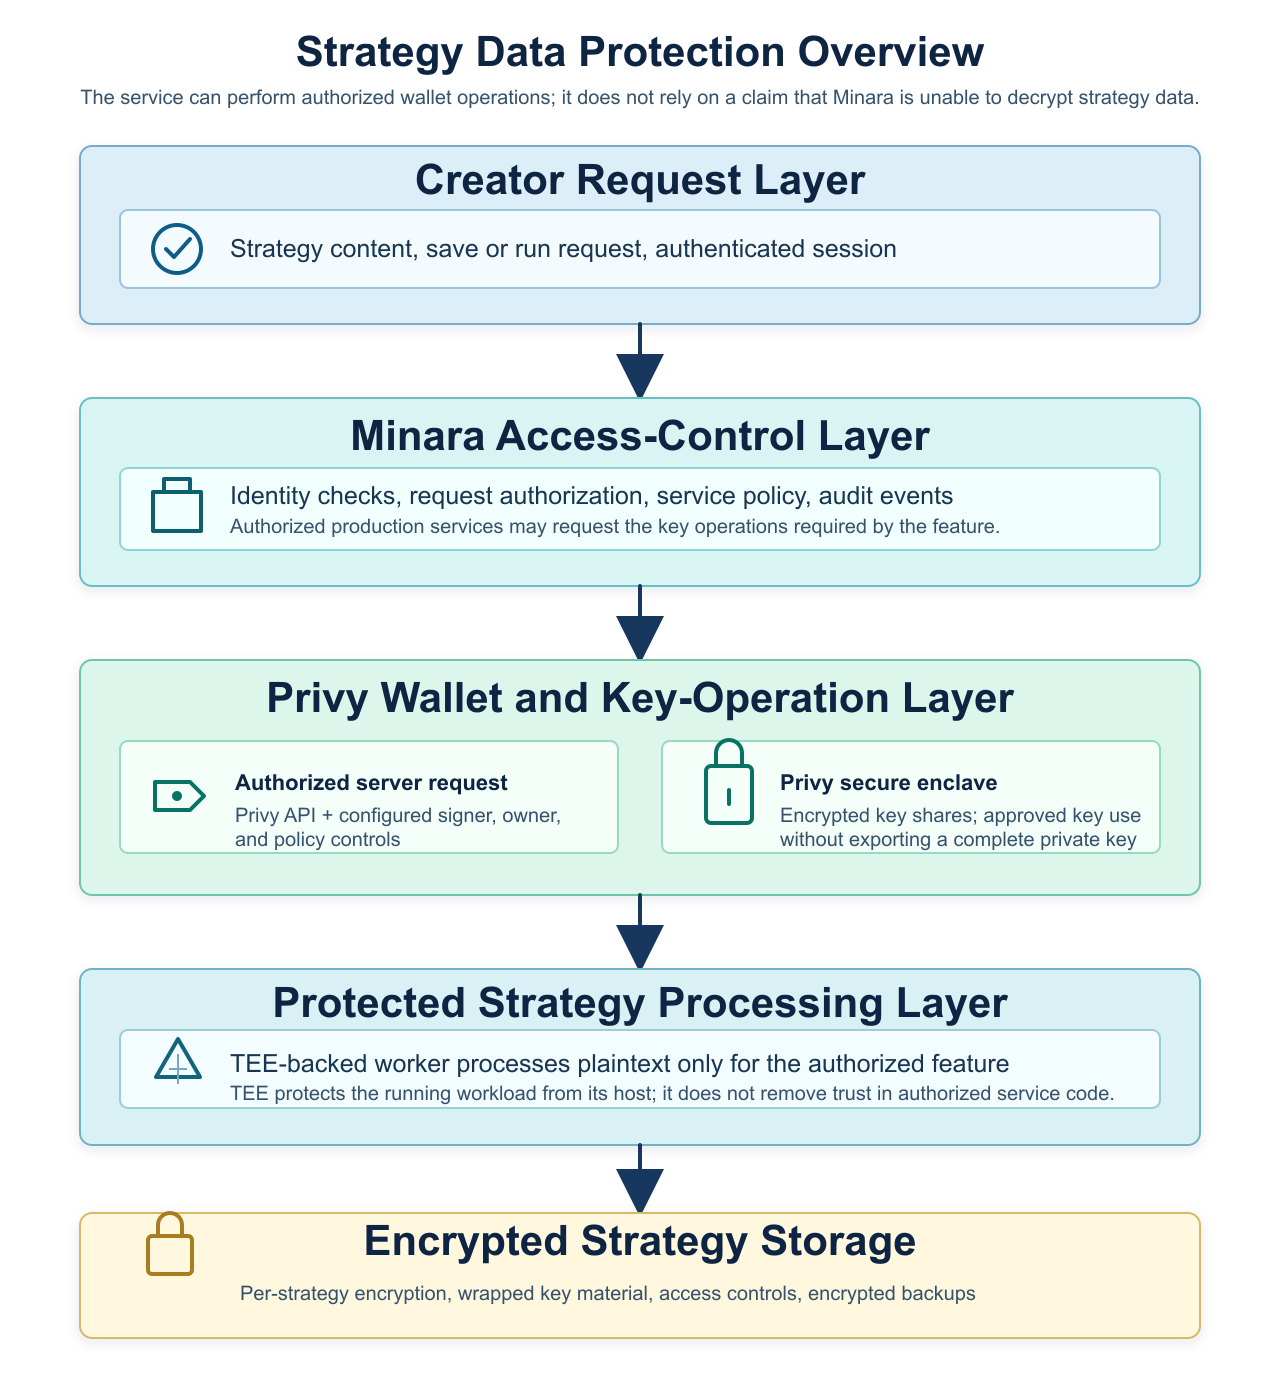
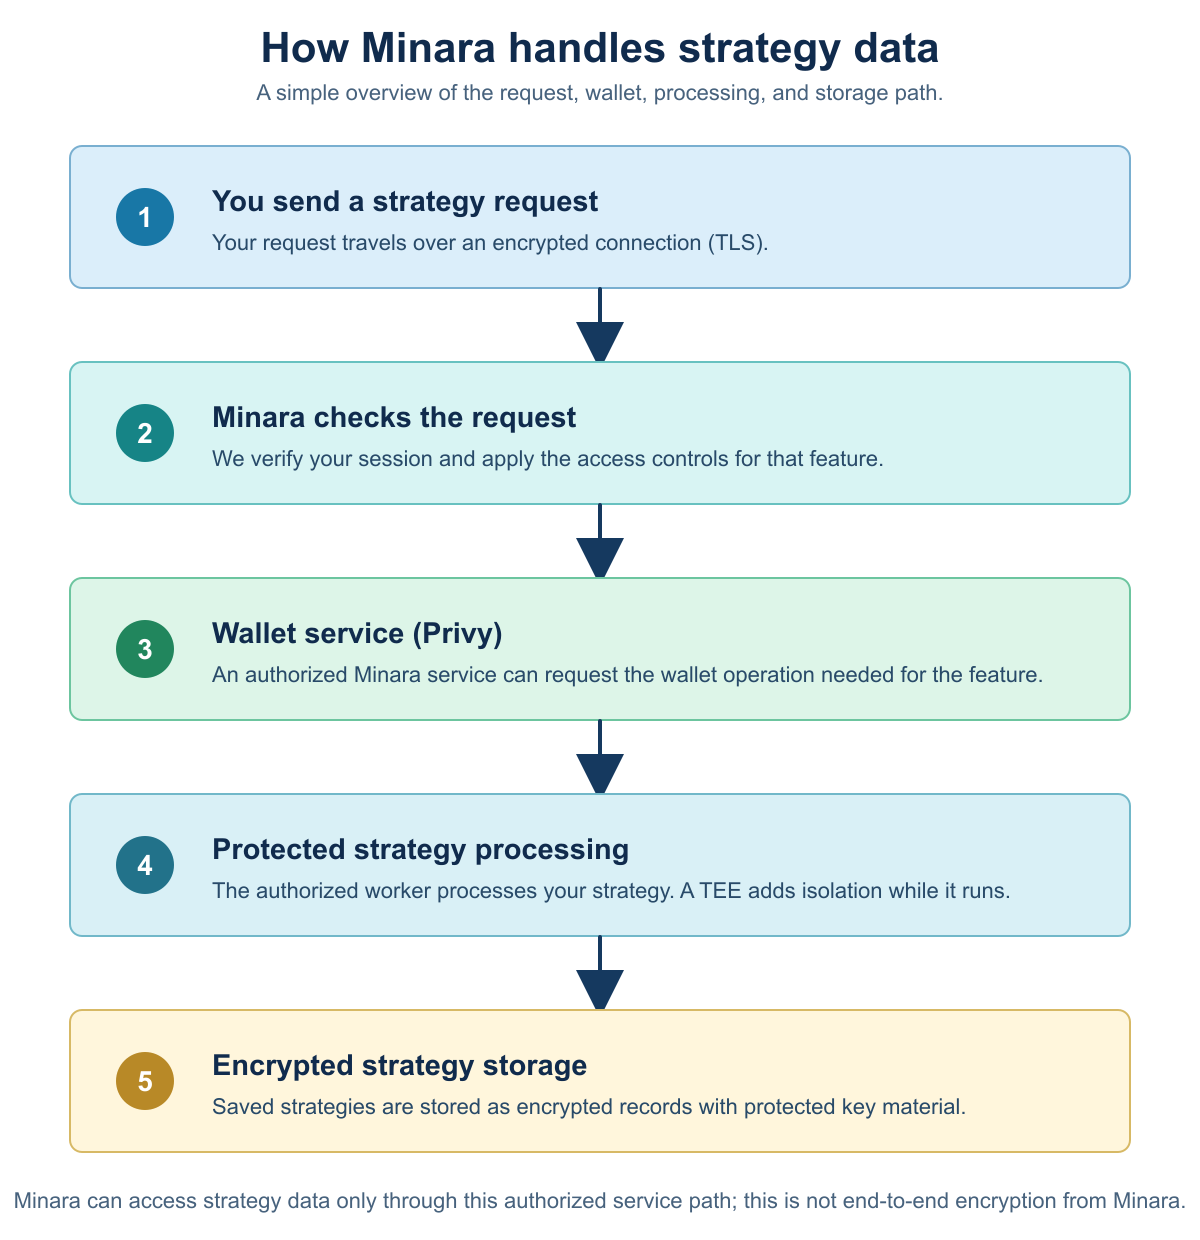
docs: simplify strategy data security overview

diff --git a/technology/data-security.md b/technology/data-security.md
@@ -1,123 +1,69 @@
 # Strategy data security
 
-This page explains how Minara protects the private content of a strategy: the ideas, instructions, parameters, code, and saved versions you provide to create, save, or run it.
+This page explains how Minara handles the private parts of your strategy: your ideas, prompts, code, rules, settings, and saved versions.
 
-The important boundary is straightforward: Minara is the service operator for this path. A properly authorized Minara production service can request the wallet and encryption operations needed to provide a strategy feature. Strategy data is therefore **not end-to-end encrypted from Minara**. Instead, access is constrained through authentication, service policy, Privy-backed key operations, TEE isolation for sensitive workloads, encrypted storage, and operational controls.
+Minara uses [Privy](https://www.privy.io/), a widely used provider of embedded user wallets, for wallet services. An authorized Minara service can request the wallet operation needed to run a feature. In plain terms, this is **not** end-to-end encryption from Minara: Minara may process strategy data when it needs to provide the feature you asked for.
 
-This page does not describe the security of public blockchain data, the general security of your account, or all wallet permissions. See [Wallet security](wallet-security.md) for the wallet architecture.
+We protect that access with sign-in checks, access controls, encrypted storage, and isolated processing for sensitive workloads.
 
 ## Overview
 
-<figure><img src="../.gitbook/assets/strategy-data-security-overview.png" alt="Layered workflow for strategy data protection: creator request, Minara access control, Privy wallet and key operations, protected strategy processing, and encrypted strategy storage."><figcaption><p>Strategy data follows a service-controlled, policy-enforced path. Privy protects wallet key custody; it does not make an authorized Minara service cryptographically unable to perform an approved operation.</p></figcaption></figure>
+<figure><img src="../.gitbook/assets/strategy-data-security-overview.png" alt="Five steps for strategy data: you send a request, Minara checks access, Privy handles the wallet operation, a protected worker processes the strategy, and the encrypted strategy is stored."><figcaption><p>A simple view of how strategy data moves through Minara.</p></figcaption></figure>
 
-## Scope
+## In brief
 
-The protections in this page apply to **strategy content**:
+- Your request is encrypted while it travels to Minara (TLS).
+- Minara checks that you are signed in and that the request is allowed.
+- Privy helps protect the wallet key used for approved wallet operations. Minara's authorized services can request those operations, but ordinary servers do not receive an exportable full private key.
+- An authorized worker processes the strategy. For sensitive workloads, a TEE adds an extra layer of isolation while the worker runs.
+- Saved strategies are stored as encrypted records with protected key material.
 
-- Strategy ideas, prompts, and instructions you enter.
-- Strategy code, rules, configuration, parameters, and saved versions.
-- Intermediate state created while that content is processed for an authorized feature.
+## What happens when you use a strategy feature
 
-They do not make public data private. Wallet addresses, on-chain transactions, account identifiers, request timing, approximate payload size, and feature usage may be processed by Minara's operational systems or be visible on the relevant blockchain. We treat that as operational data, not strategy content.
+1. You send a request to save, run, or update a strategy.
+2. Minara checks your session and applies the access rules for that feature.
+3. If the feature needs a wallet operation, an authorized Minara service requests it through Privy.
+4. The strategy worker processes the data needed for the feature and returns the result.
+5. If you save the strategy, Minara stores an encrypted version.
 
-## The wallet and key trust boundary
+Minara does not use strategy plaintext in analytics or advertising tools. We also aim to keep it out of ordinary logs, support tools, and telemetry.
 
-Minara uses Privy-backed wallets. In the configured wallet model, Minara's backend can act as an authorized party: it can initiate wallet or key-operation requests needed for an approved feature, including automated actions that do not require the user to be present for each request.
+## Wallets and keys
 
-That capability must not be confused with possession of a user's raw private key. In Privy's architecture, the complete wallet private key is reconstructed only temporarily inside its secure enclave for an authorized operation; encrypted key shares are kept across separate security boundaries. Minara's ordinary servers should receive the result of an approved operation, not an exportable complete private key.
+Privy is the wallet service used by Minara. Its protected environment performs approved wallet-key operations. In the normal path, Minara's ordinary servers receive the result of that operation, not a complete private key that can be exported.
 
-Privy describes the underlying [secure-enclave architecture](https://docs.privy.io/security/wallet-infrastructure/architecture) and [server-side signer model](https://docs.privy.io/wallets/using-wallets/signers) in its documentation. Those materials describe Privy's platform controls; Minara's own access policies and feature configuration determine which authorized requests Minara permits.
+However, because Minara can request approved operations through this wallet path, a wallet is not a promise that Minara can never access strategy data. The wallet, access rules, and encryption work together to limit and protect that access.
 
-For strategy data, the practical consequence is important: wallet-linked encryption or decryption is a **service-controlled access mechanism**, not a promise that only the creator can ever decrypt a strategy. If Minara's authorized backend can request the relevant key operation, it can enable the feature to access the strategy plaintext. Our controls are designed to make that access deliberate, authorized, limited to the feature, and auditable.
+## What a TEE means
 
-{% hint style="info" %}
-This is not a zero-knowledge or client-only-key design. Do not interpret the use of a wallet, a TEE, or encrypted storage as a guarantee that Minara cannot access strategy plaintext in every circumstance.
-{% endhint %}
+A Trusted Execution Environment (TEE) is a protected area for running software. It helps keep a worker's memory separate from the surrounding server while it is running.
 
-## How strategy content is processed
+Your strategy is decrypted only when the authorized worker needs to use it. A TEE adds protection around that step, but it does not make Minara unable to access data through an approved service, and it cannot protect against every software or hardware vulnerability.
 
-For a strategy feature that saves or runs strategy content, the processing flow is:
+## What Minara may handle
 
-1. The creator sends the request over TLS using an authenticated Minara session.
-2. Minara validates the session, the request, and the applicable service policy. The request is associated with the account, feature, and operational audit data needed to run it securely.
-3. Where the feature requires wallet-linked key material, an authorized Minara service requests the allowed operation through the Privy wallet path. Privy's configured owner, signer, quorum, and policy controls determine whether the operation is permitted.
-4. Privy's secure enclave performs the approved wallet-key operation using protected key shares. The complete wallet private key is not returned to Minara's ordinary application servers.
-5. An authorized strategy worker obtains or unwraps the strategy encryption material required by the feature, decrypts the strategy content, and processes it. Sensitive strategy processing is designed to run in a TEE-backed workload where applicable.
-6. The feature returns its result and stores a saved strategy as ciphertext. Strategy plaintext is not an intended field in ordinary databases, support tools, telemetry, or application logs.
-
-The output is part of the trust boundary. A result can reveal information about its input if the feature is designed to return it. We limit outputs to what the requested feature needs, but no output should be treated as proof that nothing about the strategy can be inferred.
-
-## What a TEE does, and does not do
-
-A Trusted Execution Environment (TEE) is a hardware-backed isolated execution environment. It protects a running workload's memory from direct inspection by the surrounding host operating system, hypervisor, and infrastructure administrators while the workload is running.
-
-Strategy content is not processed while it remains encrypted. It is decrypted when the authorized worker needs it and is handled inside the protected workload. The benefit of the TEE is isolation of that execution and its in-memory state from the host environment.
-
-A TEE does **not** make the authorized workload, its permitted outputs, or Minara's authorization decisions untrustworthy by default. It does not protect against bugs or malicious logic in approved code, a compromised creator device or account, data deliberately shared by the creator, or every hardware and side-channel attack. TEE isolation is one layer of defense in depth, not a substitute for authorization and secure software operation.
-
-## Encryption and key handling
-
-Minara uses separate controls at separate stages:
-
-| Stage | Protection and boundary |
+| Data | How it is handled |
 | --- | --- |
-| In transit | TLS protects the connection between the creator and Minara. |
-| Service authorization | Minara authenticates the request and applies feature and account policy before a protected service can request a key operation. |
-| Wallet operations | Privy-backed owner, signer, quorum, and policy controls govern wallet-key operations. Minara's backend can initiate an operation when it is configured and authorized to do so; it does not receive an exportable complete private key as part of the normal operation. |
-| In use | An authorized strategy worker decrypts and processes the content. A TEE-backed worker, where used, isolates the workload from its host environment. |
-| At rest | Each saved strategy is encrypted with a distinct data-encryption key (DEK). The database stores the ciphertext and wrapped or otherwise protected key material, not a plaintext strategy record. |
+| Strategy data | Processed by an authorized worker when needed for a feature. |
+| Saved strategy | Stored as encrypted data. |
+| Wallet operation | Requested by an authorized Minara service through Privy when a feature needs it. |
+| Wallet private key | Not normally available to Minara's servers as a complete, exportable key. |
+| Account and request details | Used to run, secure, and support the service. |
+| Feature result | Returned to you; it may reveal information that the feature is designed to show. |
 
-For a saved strategy, envelope encryption separates the content-encryption key from the storage record. Where wallet-linked material participates in wrapping, unwrapping, or authorizing access to that key, Minara's service may request that operation through the authorized wallet path. A database backup alone should not be sufficient to recover strategy plaintext; access also requires the relevant protected key material and service authorization.
+## Storage and deletion
 
-Wallet-key custody and strategy-key custody are related only where a feature explicitly uses the wallet path to authorize strategy encryption material. A wallet private key is not a general-purpose promise that strategy content is unreadable by Minara.
+Minara keeps saved strategies in encrypted form. When you delete one, we remove it from the active product path and begin deletion from the relevant systems. Encrypted backup copies may remain for a limited time before they expire.
 
-## What Minara systems can handle
+## Important limits
 
-| Item | Handling |
-| --- | --- |
-| Strategy content in transit | Protected by TLS; received by Minara to provide the requested feature. |
-| Strategy plaintext | May be handled by an authorized strategy worker when required for a requested feature. TEE isolation, where used, protects the worker from its host environment. |
-| Saved strategy record | Stored as ciphertext with protected key material; retrieved only through the authorized service path. |
-| Wallet private key | Not available in complete, exportable form to Minara's ordinary servers in the normal Privy operation path; complete-key use occurs temporarily inside the Privy secure enclave. |
-| Wallet-key operation | May be initiated by an authorized Minara service under the configured Privy controls and policies. |
-| Request metadata | May be processed by Minara for service delivery, security, support, and troubleshooting. |
-| Feature result | Returned through the feature path; it may contain information the feature is designed to reveal. |
+No security system removes every risk. This page does not protect against a compromised device or account, a strategy you choose to share, an output that reveals strategy details, public blockchain data, or every possible software and hardware vulnerability.
 
-## Storage and retention
+Some features may use an external model or data provider. If a feature sends strategy data outside Minara's normal protected path, it should tell you what is sent and why.
 
-Minara stores saved strategies in encrypted form. Access to encrypted records is restricted to service components that need to store, retrieve, or serve them. Production access controls are intended to prevent strategy plaintext from being copied into ordinary logs, telemetry, or support tooling.
+## Questions or security reports
 
-A strategy may be retained while you keep it in your account and for a limited period afterward where backup, security, legal, or accounting obligations require retention. Deleting a strategy removes it from the active product path and begins deletion from applicable systems under Minara's retention process. Backup copies can expire on a different schedule; they remain encrypted and access-controlled until removed.
-
-## Third parties and feature boundaries
-
-Minara does not send strategy plaintext to analytics or advertising providers.
-
-Privy is a wallet infrastructure provider used for the authorized wallet-operation path described above. Its key-management protections do not expand Minara's access beyond the wallet configuration and policies, but a Minara service that is configured as an authorized party can use that path to provide an approved feature.
-
-A feature that uses an external model or data provider can have a different data path. Before strategy content is sent outside Minara's protected strategy-processing path, the feature must identify what is sent and why. The protections in this page should not be read as a promise that an explicitly disclosed external-provider feature has the same boundary.
-
-## Security commitments and limits
-
-Minara's operational objective is to make strategy-data access purposeful rather than ambient:
-
-- Require authenticated, authorized service requests before invoking wallet or strategy-key operations.
-- Restrict production access to the components that need to deliver the feature, and record relevant security and access events.
-- Keep saved strategy records encrypted and keep plaintext out of ordinary databases and observability systems.
-- Use TEE-backed isolation for sensitive workloads where it is part of the feature's processing path.
-- Review and update access controls, policies, and software as the product evolves.
-
-These controls reduce exposure; they do not eliminate risk. They do not protect against compromised devices, accounts, or authorized service code; strategy content you export or share; outputs that reveal the strategy by design or inference; public blockchain data; TEE side-channel or firmware attacks; availability failures; incorrect results; or custody risks associated with wallet and trading operations.
-
-## Your controls
-
-- You control whether to save a strategy and can delete saved strategies through the product where that option is available.
-- You can request access to or deletion of account data by contacting the security team.
-- You should keep your device, wallet, recovery material, and account credentials secure. No service-side control can protect strategy content after those are compromised or you choose to share it.
-
-## Reporting a security issue
-
-If you believe you have found a vulnerability or have a question about strategy-data handling, contact Minara's security team at `[email redacted]`. Please include enough detail to reproduce the issue. Minara does not take legal action against good-faith security research.
+If you have a question about strategy-data handling or believe you found a security issue, contact `[email redacted]`.
 
 ## Changes to this statement
 